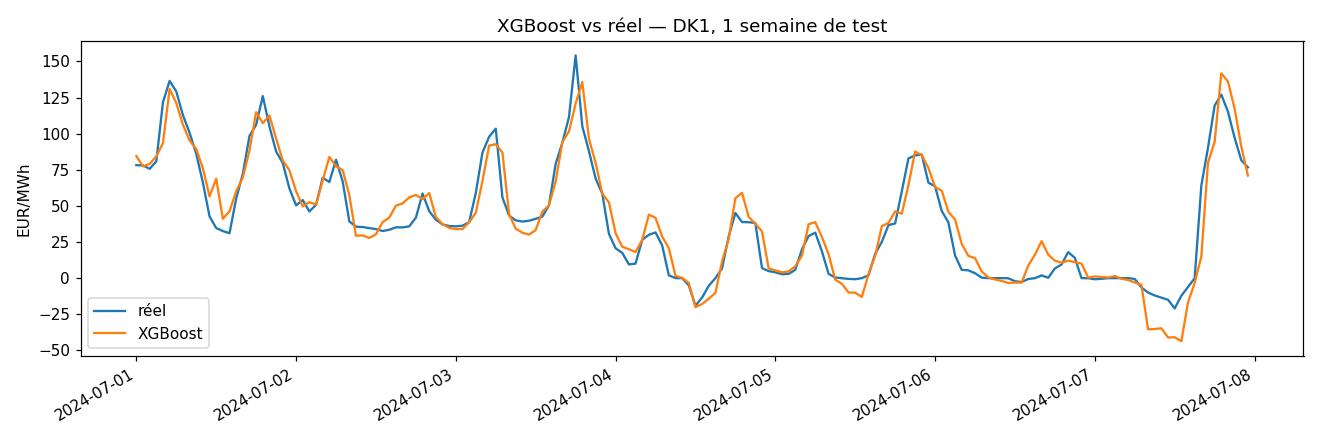
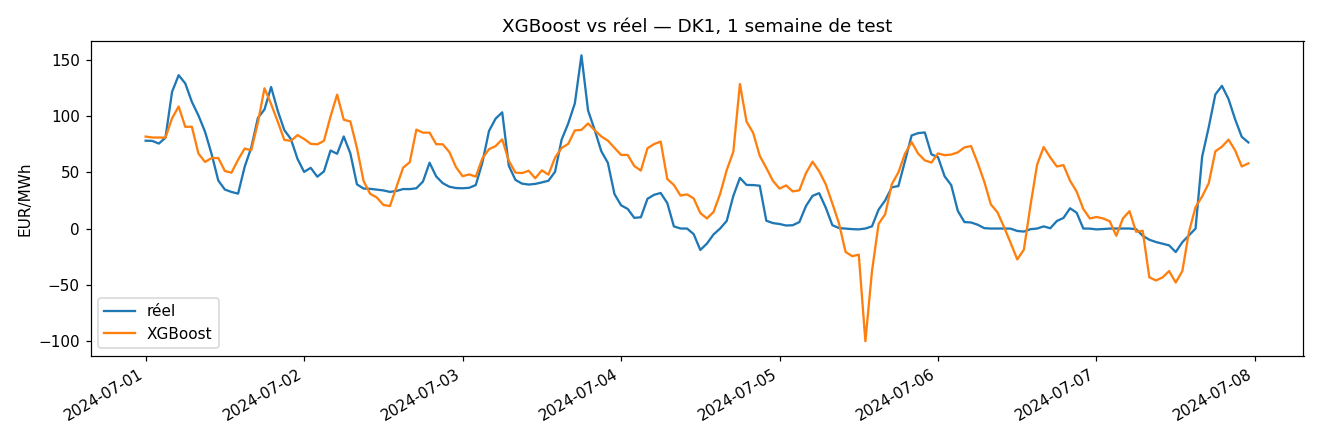
Day-ahead (HORIZON=24) : retrait lag1, rolling shifté à l'horizon -> XGBoost MAE 25.6 vs naïf 36.5

diff --git a/src/features.py b/src/features.py
@@ -24,8 +24,12 @@ CSV = PROCESSED_DIR / "denmark_electricity_dataset_2022_2024.csv"
 OUT = PROCESSED_DIR / "features.parquet"
 
 TARGETS = ["spot_price_eur", "imbalance"]
-LAGS = [1, 24, 168]
+# horizon de prévision (h) : 1 = nowcast (utilise lag1) ; 24 = day-ahead réaliste.
+# En day-ahead on ne dispose que d'infos jusqu'à H-24 -> lag min = horizon.
+HORIZON = int(__import__("os").environ.get("HORIZON", "24"))
+LAGS = [h for h in [1, 24, 168] if h >= HORIZON]
 ROLL_WINDOWS = [24, 168]
+ROLL_SHIFT = HORIZON  # la fenêtre rolling exclut tout ce qui est < H-horizon
 DK_HOLIDAYS = holidays.Denmark(years=range(2021, 2026))
 
 
@@ -52,8 +56,9 @@ def build_features(df):
             for lag in LAGS:
                 g[f"{col}_lag{lag}"] = g[col].shift(lag)
             for w in ROLL_WINDOWS:
-                # shift(1) avant rolling : la fenêtre exclut l'instant courant
-                base = g[col].shift(1)
+                # shift(horizon) avant rolling : exclut tout ce qui n'est pas
+                # disponible à l'instant de prévision (pas de fuite à l'horizon)
+                base = g[col].shift(ROLL_SHIFT)
                 g[f"{col}_rollmean{w}"] = base.rolling(w).mean()
                 g[f"{col}_rollstd{w}"] = base.rolling(w).std()
         parts.append(g)